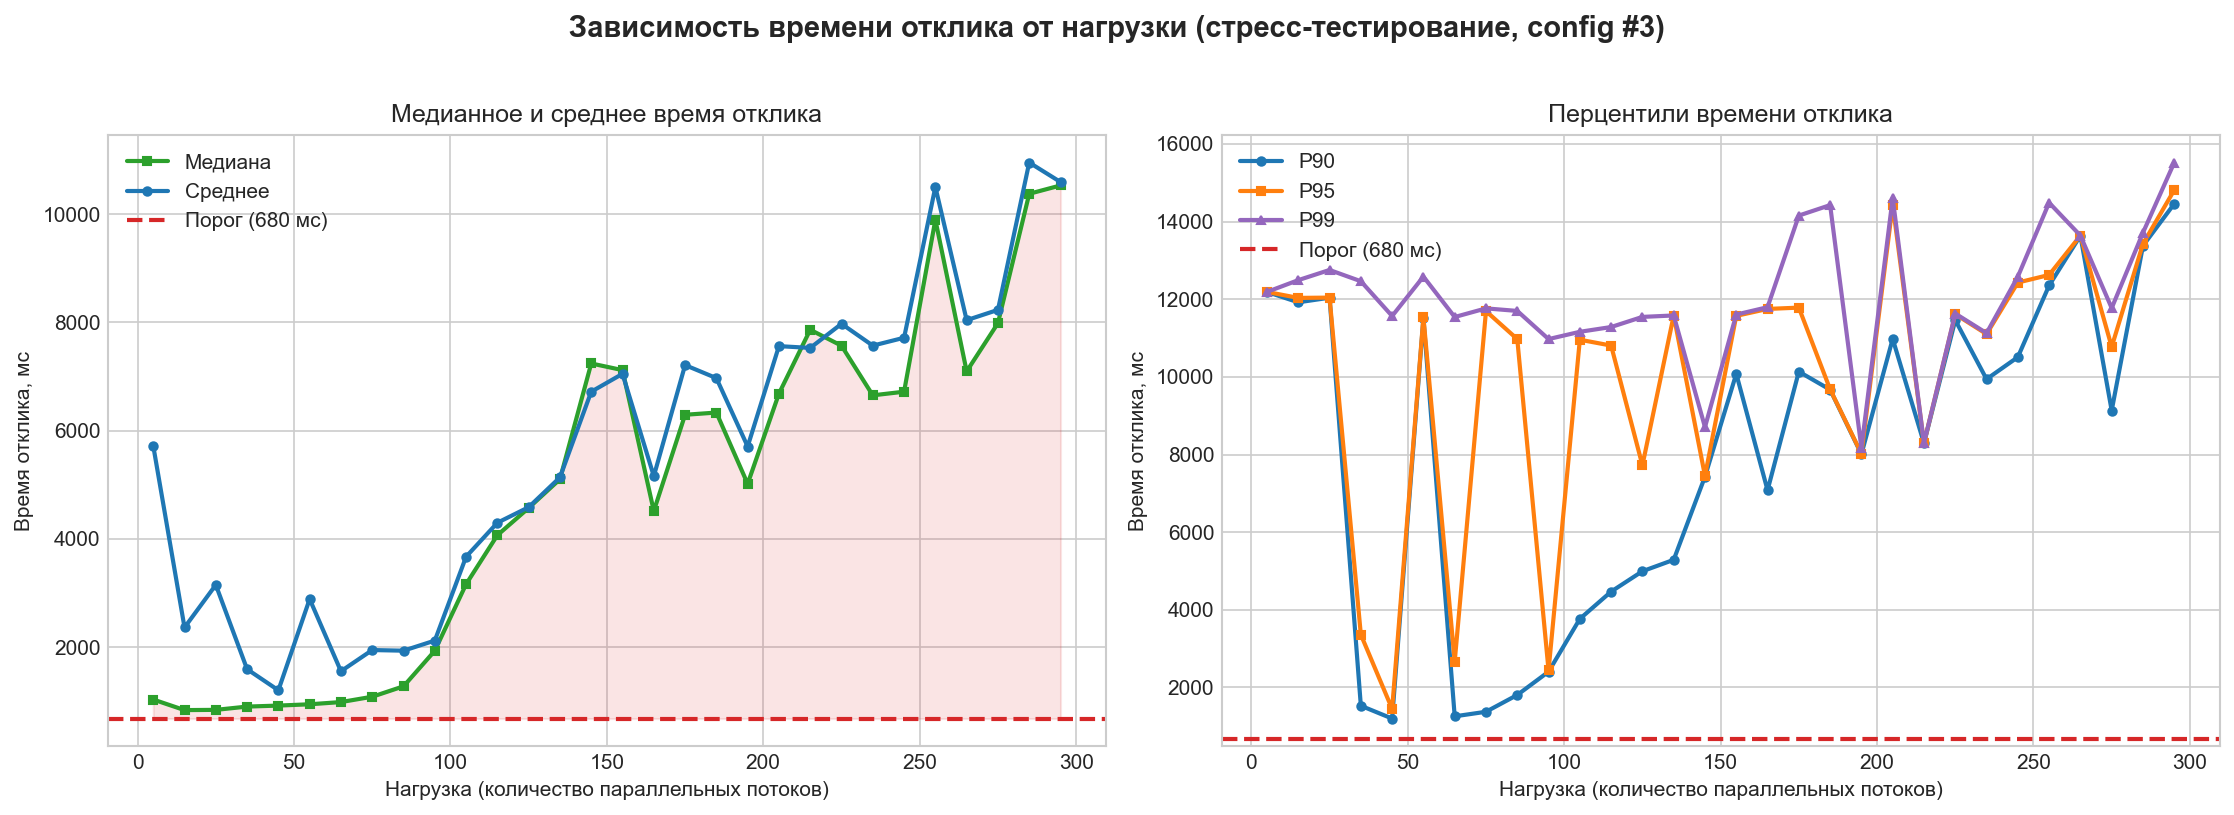
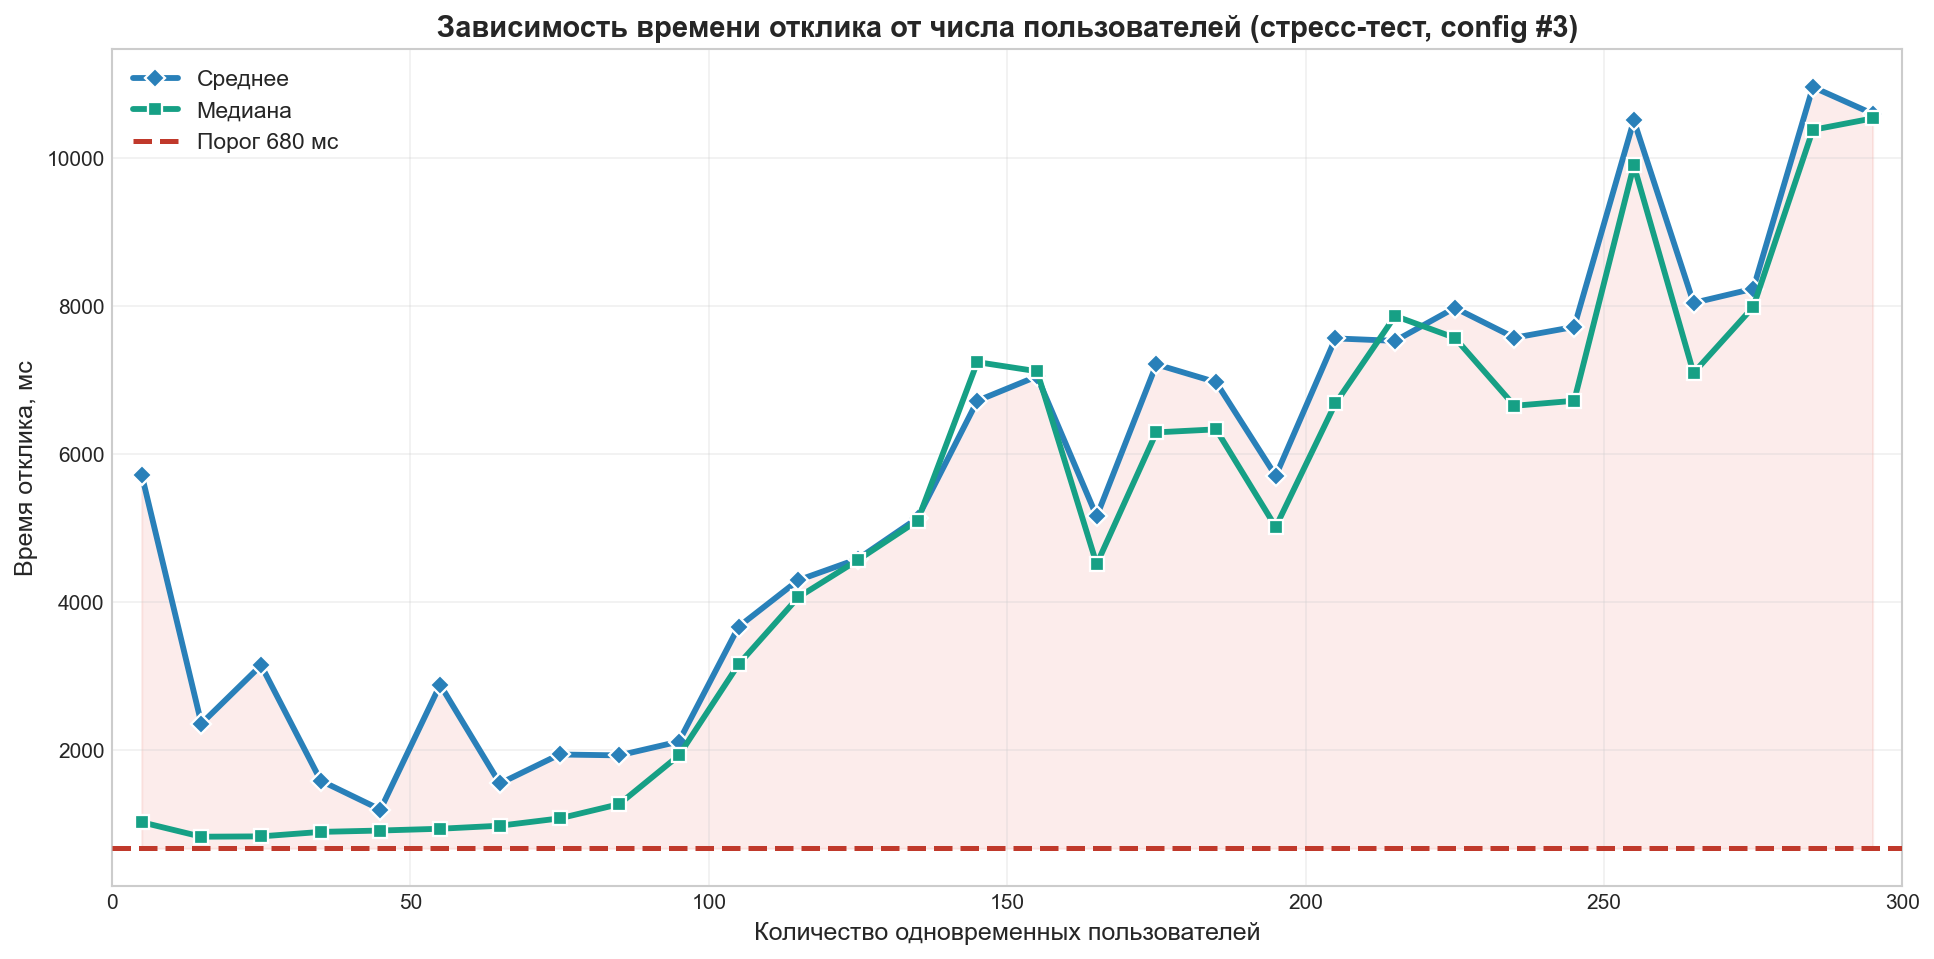
feat: ярче и читаемее графики (box-plot с градиентом, log-шкала, привязка к числу юзеров), обновлены картинки в отчёте и шпаргалка

diff --git a/stress/boxplot_stress.py b/stress/boxplot_stress.py
@@ -1,0 +1,92 @@
+#!/usr/bin/env python3
+"""Box-plot времени отклика по диапазонам нагрузки (стресс-тестирование).
+
+Ось X — диапазоны количества одновременных пользователей. Для каждого диапазона —
+яркий «ящик с усами» по времени отклика. Цвет ящика отражает «здоровье» системы
+(зелёный → жёлтый → красный по мере роста времени отклика). Логарифмическая шкала
+по Y делает читаемыми и малые, и большие значения. Нанесены среднее, медиана,
+порог 680 мс; зона выше порога подсвечена.
+"""
+import os
+import numpy as np
+import pandas as pd
+import matplotlib.pyplot as plt
+from matplotlib.colors import LinearSegmentedColormap
+
+BASE = os.path.dirname(os.path.dirname(os.path.abspath(__file__)))
+CSV = os.path.join(BASE, 'stress', 'result', 'results.csv')
+OUT = os.path.join(BASE, 'boxplot_stress.png')
+THRESHOLD_MS = 680
+BIN = 25
+
+df = pd.read_csv(CSV)
+df = df[df['grpThreads'] > 0].copy()
+maxn = int(df['grpThreads'].max())
+edges = list(range(0, maxn + BIN, BIN))
+
+data, labels, means, medians, counts = [], [], [], [], []
+for i in range(len(edges) - 1):
+    lo, hi = edges[i], edges[i + 1]
+    sub = df[(df['grpThreads'] > lo) & (df['grpThreads'] <= hi)]['elapsed'].values
+    if len(sub) < 5:
+        continue
+    data.append(sub)
+    labels.append(f'{lo + 1}–{hi}')
+    means.append(sub.mean())
+    medians.append(np.median(sub))
+    counts.append(len(sub))
+
+plt.style.use('seaborn-v0_8-whitegrid')
+fig, ax = plt.subplots(figsize=(15, 7.5))
+pos = np.arange(len(data))
+
+# цвет ящика по медиане: зелёный (быстро) -> жёлтый -> красный (медленно)
+cmap = LinearSegmentedColormap.from_list('health', ['#2ecc71', '#f1c40f', '#e74c3c'])
+mmin, mmax = min(medians), max(medians)
+box_colors = [cmap((m - mmin) / (mmax - mmin + 1e-9)) for m in medians]
+
+bp = ax.boxplot(data, positions=pos, widths=0.62, patch_artist=True,
+                showfliers=True,
+                flierprops=dict(marker='o', ms=2.5, alpha=0.18,
+                                markerfacecolor='#7f8c8d', markeredgecolor='none'),
+                medianprops=dict(color='#1a1a1a', lw=2.8),
+                whiskerprops=dict(color='#34495e', lw=1.6),
+                capprops=dict(color='#34495e', lw=1.6),
+                boxprops=dict(lw=1.4))
+for box, c in zip(bp['boxes'], box_colors):
+    box.set(facecolor=c, edgecolor='#2c3e50', alpha=0.92)
+
+# среднее — крупные яркие ромбы с линией
+ax.plot(pos, means, color='#2980b9', marker='D', ms=9, lw=2.4,
+        markeredgecolor='white', markeredgewidth=1.2, label='Среднее', zorder=6)
+# медиана — линия-связка по верхам медиан
+ax.plot(pos, medians, color='#16a085', marker='s', ms=8, lw=2.4,
+        markeredgecolor='white', markeredgewidth=1.2, label='Медиана', zorder=6)
+
+# порог и подсветка зоны превышения
+ax.axhline(THRESHOLD_MS, color='#c0392b', ls='--', lw=2.4, label=f'Порог {THRESHOLD_MS} мс', zorder=4)
+ax.axhspan(THRESHOLD_MS, ax.get_ylim()[1], color='#e74c3c', alpha=0.05, zorder=0)
+
+ax.set_yscale('log')
+ax.set_ylim(bottom=max(300, df['elapsed'].min() * 0.9))
+ax.set_xlabel('Количество одновременных пользователей (диапазон)', labelpad=20, fontsize=12)
+ax.set_ylabel('Время отклика, мс (лог. шкала)', fontsize=12)
+ax.set_title('Распределение времени отклика по нагрузке (стресс-тест, config #3)',
+             fontsize=14, fontweight='bold')
+ax.set_xticks(pos)
+ax.set_xticklabels(labels, rotation=40, ha='right', fontsize=10)
+ax.grid(axis='y', which='both', alpha=0.3)
+
+# число замеров над осью X
+ymin = ax.get_ylim()[0]
+for p, c in zip(pos, counts):
+    ax.annotate(f'n={c}', (p, ymin), textcoords='offset points', xytext=(0, -34),
+                ha='center', fontsize=8, color='#555')
+
+ax.legend(loc='upper left', fontsize=11, framealpha=0.95)
+plt.tight_layout()
+plt.savefig(OUT, dpi=150, bbox_inches='tight')
+print('Среднее/медиана по диапазонам нагрузки:')
+for lab, mn, md, c in zip(labels, means, medians, counts):
+    print(f'  {lab} польз.: среднее={mn:.0f} медиана={md:.0f} (n={c})')
+print(f'График сохранён: {OUT}')

diff --git a/stress/response_time_analysis.py b/stress/response_time_analysis.py
@@ -1,10 +1,10 @@
 #!/usr/bin/env python3
-"""Анализ стресс-тестирования: график зависимости времени отклика от нагрузки.
+"""Зависимость времени отклика от числа пользователей (стресс-тестирование).
 
-Результаты собраны через SSH-туннель до сервера кафедры, поэтому в сырых данных
-присутствуют сетевые выбросы. Для построения наглядной зависимости данные
-агрегируются по диапазонам нагрузки (бинам) с использованием медианы и
-перцентилей, устойчивых к выбросам.
+Строит линейный график среднего и медианного времени отклика выбранной
+конфигурации в зависимости от количества одновременных пользователей (потоков).
+Данные собраны через SSH-туннель, поэтому агрегируются по диапазонам нагрузки;
+медиана устойчива к сетевым выбросам. Порог 680 мс показан пунктиром.
 """
 import os
 import numpy as np
@@ -15,66 +15,46 @@ BASE = os.path.dirname(os.path.dirname(os.path.abspath(__file__)))
 CSV = os.path.join(BASE, 'stress', 'result', 'results.csv')
 OUT = os.path.join(BASE, 'response_time_vs_load.png')
 THRESHOLD_MS = 680
-BIN = 10  # ширина диапазона нагрузки (потоков) для агрегации
+BIN = 10  # ширина диапазона нагрузки (пользователей) для агрегации
 
 df = pd.read_csv(CSV)
 df = df[df['grpThreads'] > 0].copy()
-df['bin'] = ((df['grpThreads'] - 1) // BIN) * BIN + BIN // 2  # центр диапазона
+df['users'] = ((df['grpThreads'] - 1) // BIN) * BIN + BIN // 2  # центр диапазона
 
-agg = df.groupby('bin')['elapsed'].agg(
-    median='median',
-    mean='mean',
-    p90=lambda s: s.quantile(0.9),
-    p95=lambda s: s.quantile(0.95),
-    p99=lambda s: s.quantile(0.99),
-    n='count',
-).reset_index()
-agg = agg[agg['n'] >= 5]  # отбрасываем диапазоны с недостатком данных
-
-print("Агрегированная статистика по диапазонам нагрузки:")
-print(agg.to_string(index=False))
-print("\n" + "=" * 80)
+agg = df.groupby('users')['elapsed'].agg(
+    mean='mean', median='median', n='count').reset_index()
+agg = agg[agg['n'] >= 5]
 
 plt.style.use('seaborn-v0_8-whitegrid')
-fig, axes = plt.subplots(1, 2, figsize=(15, 5.5))
-fig.suptitle('Зависимость времени отклика от нагрузки (стресс-тестирование, config #3)',
-             fontsize=14, fontweight='bold')
+fig, ax = plt.subplots(figsize=(13, 6.5))
 
-# --- Левый график: медиана и среднее ---
-ax1 = axes[0]
-ax1.plot(agg['bin'], agg['median'], color='#2ca02c', marker='s', ms=4, lw=2, label='Медиана')
-ax1.plot(agg['bin'], agg['mean'], color='#1f77b4', marker='o', ms=4, lw=2, label='Среднее')
-ax1.axhline(THRESHOLD_MS, color='#d62728', ls='--', lw=2, label=f'Порог ({THRESHOLD_MS} мс)')
-ax1.fill_between(agg['bin'], THRESHOLD_MS, agg['median'],
-                 where=(agg['median'] > THRESHOLD_MS), color='#d62728', alpha=0.12)
-ax1.set_xlabel('Нагрузка (количество параллельных потоков)')
-ax1.set_ylabel('Время отклика, мс')
-ax1.set_title('Медианное и среднее время отклика')
-ax1.legend(loc='upper left')
+ax.fill_between(agg['users'], THRESHOLD_MS, agg['mean'],
+                where=(agg['mean'] > THRESHOLD_MS), color='#e74c3c', alpha=0.10, zorder=0)
+ax.plot(agg['users'], agg['mean'], color='#2980b9', marker='D', ms=7, lw=2.8,
+        markeredgecolor='white', markeredgewidth=1.1, label='Среднее', zorder=5)
+ax.plot(agg['users'], agg['median'], color='#16a085', marker='s', ms=7, lw=2.8,
+        markeredgecolor='white', markeredgewidth=1.1, label='Медиана', zorder=5)
+ax.axhline(THRESHOLD_MS, color='#c0392b', ls='--', lw=2.4, label=f'Порог {THRESHOLD_MS} мс', zorder=4)
 
-# --- Правый график: перцентили ---
-ax2 = axes[1]
-ax2.plot(agg['bin'], agg['p90'], color='#1f77b4', marker='o', ms=4, lw=2, label='P90')
-ax2.plot(agg['bin'], agg['p95'], color='#ff7f0e', marker='s', ms=4, lw=2, label='P95')
-ax2.plot(agg['bin'], agg['p99'], color='#9467bd', marker='^', ms=4, lw=2, label='P99')
-ax2.axhline(THRESHOLD_MS, color='#d62728', ls='--', lw=2, label=f'Порог ({THRESHOLD_MS} мс)')
-ax2.set_xlabel('Нагрузка (количество параллельных потоков)')
-ax2.set_ylabel('Время отклика, мс')
-ax2.set_title('Перцентили времени отклика')
-ax2.legend(loc='upper left')
-
-plt.tight_layout(rect=[0, 0, 1, 0.96])
+ax.set_xlabel('Количество одновременных пользователей', fontsize=12)
+ax.set_ylabel('Время отклика, мс', fontsize=12)
+ax.set_title('Зависимость времени отклика от числа пользователей '
+             '(стресс-тест, config #3)', fontsize=14, fontweight='bold')
+ax.legend(loc='upper left', fontsize=11, framealpha=0.95)
+ax.grid(alpha=0.3)
+ax.set_xlim(0, agg['users'].max() + 5)
+plt.tight_layout()
 plt.savefig(OUT, dpi=150, bbox_inches='tight')
-print(f"График сохранён: {OUT}")
 
-# --- Точка пробоя порога по медиане ---
-print("\nИТОГОВЫЙ АНАЛИЗ (по медиане, устойчивой к сетевым выбросам):")
+print('Среднее/медиана по числу пользователей:')
+print(agg.to_string(index=False))
 over = agg[agg['median'] > THRESHOLD_MS]
 ok = agg[agg['median'] <= THRESHOLD_MS]
+print("\nИТОГ (по медиане):")
 if not over.empty:
-    first = int(over.iloc[0]['bin'])
-    max_ok = int(ok['bin'].max()) if not ok.empty else 0
-    print(f"  Порог {THRESHOLD_MS} мс по медиане превышается начиная с диапазона ~{first} потоков")
-    print(f"  Максимальная нагрузка с медианой в пределах порога: ~{max_ok} потоков")
+    print(f"  Порог {THRESHOLD_MS} мс по медиане превышается с ~{int(over.iloc[0]['users'])} пользователей")
+    if not ok.empty:
+        print(f"  Макс. нагрузка с медианой в пределах порога: ~{int(ok['users'].max())} пользователей")
 else:
-    print(f"  Медиана не превышает {THRESHOLD_MS} мс на всём диапазоне нагрузки")
+    print(f"  Медиана не превышает {THRESHOLD_MS} мс на всём диапазоне")
+print(f"График сохранён: {OUT}")

diff --git a/load/boxplot_load.py b/load/boxplot_load.py
@@ -1,0 +1,74 @@
+#!/usr/bin/env python3
+"""Box-plot времени отклика по числу пользователей (нагрузочное тестирование).
+
+Ось X — точное количество одновременных пользователей (потоков), для каждого
+значения строится «ящик с усами» по времени отклика выбранной конфигурации.
+Дополнительно нанесены среднее и медианное значения и порог 680 мс.
+"""
+import os
+import numpy as np
+import pandas as pd
+import matplotlib.pyplot as plt
+
+BASE = os.path.dirname(os.path.dirname(os.path.abspath(__file__)))
+CSV = os.path.join(BASE, 'load', 'result', 'results.csv')
+OUT = os.path.join(BASE, 'boxplot_load.png')
+THRESHOLD_MS = 680
+CONFIG = 3  # выбранная конфигурация
+
+df = pd.read_csv(CSV)
+df['config'] = df['URL'].str.extract(r'config=(\d)').astype(int)
+g = df[df['config'] == CONFIG]
+
+levels = sorted(g['grpThreads'].unique())
+data = [g[g['grpThreads'] == n]['elapsed'].values for n in levels]
+means = [v.mean() for v in data]
+medians = [np.median(v) for v in data]
+counts = [len(v) for v in data]
+
+from matplotlib.colors import LinearSegmentedColormap
+plt.style.use('seaborn-v0_8-whitegrid')
+fig, ax = plt.subplots(figsize=(13, 7))
+
+# цвет ящиков по медиане: зелёный -> жёлтый -> красный
+cmap = LinearSegmentedColormap.from_list('health', ['#2ecc71', '#f1c40f', '#e74c3c'])
+mmin, mmax = min(medians), max(medians)
+box_colors = [cmap((m - mmin) / (mmax - mmin + 1e-9)) for m in medians]
+
+bp = ax.boxplot(data, positions=levels, widths=0.5, patch_artist=True,
+                showfliers=True, flierprops=dict(marker='o', ms=3.5, alpha=0.25,
+                markerfacecolor='#7f8c8d', markeredgecolor='none'),
+                medianprops=dict(color='#1a1a1a', lw=2.8),
+                whiskerprops=dict(color='#34495e', lw=1.6),
+                capprops=dict(color='#34495e', lw=1.6),
+                boxprops=dict(lw=1.4))
+for box, c in zip(bp['boxes'], box_colors):
+    box.set(facecolor=c, edgecolor='#2c3e50', alpha=0.92)
+
+# среднее и медиана — крупные яркие маркеры с белой обводкой
+ax.plot(levels, means, color='#2980b9', marker='D', ms=10, lw=2.4,
+        markeredgecolor='white', markeredgewidth=1.3, label='Среднее', zorder=6)
+ax.plot(levels, medians, color='#16a085', marker='s', ms=9, lw=2.4,
+        markeredgecolor='white', markeredgewidth=1.3, label='Медиана', zorder=6)
+ax.axhline(THRESHOLD_MS, color='#c0392b', ls='--', lw=2.4, label=f'Порог {THRESHOLD_MS} мс', zorder=4)
+ax.axhspan(THRESHOLD_MS, ax.get_ylim()[1], color='#e74c3c', alpha=0.05, zorder=0)
+
+# подписи: точное число замеров под каждой группой
+y0 = ax.get_ylim()[0]
+for n, c in zip(levels, counts):
+    ax.annotate(f'n={c}', (n, y0), textcoords='offset points', xytext=(0, -24),
+                ha='center', fontsize=8.5, color='#444')
+
+ax.set_xlabel('Количество одновременных пользователей', labelpad=20, fontsize=12)
+ax.set_ylabel('Время отклика, мс', fontsize=12)
+ax.set_title(f'Распределение времени отклика по числу пользователей '
+             f'(нагрузочный тест, config #{CONFIG})', fontsize=14, fontweight='bold')
+ax.set_xticks(levels)
+ax.grid(axis='y', alpha=0.3)
+ax.legend(loc='upper left', fontsize=11, framealpha=0.95)
+plt.tight_layout()
+plt.savefig(OUT, dpi=150, bbox_inches='tight')
+print('Среднее/медиана по числу пользователей:')
+for n, mn, md, c in zip(levels, means, medians, counts):
+    print(f'  {n} польз.: среднее={mn:.0f} медиана={md:.0f} (n={c})')
+print(f'График сохранён: {OUT}')

diff --git a/ШПАРГАЛКА.md b/ШПАРГАЛКА.md
@@ -78,39 +78,45 @@
 
 ## Что за графики в отчёте — разбор каждого
 
-### 1. Графики из HTML-дашборда JMeter (`load/report*/`)
-Генерятся автоматом командой `jmeter ... -e -o ./load/report`.
+Все графики строятся Python-скриптами по реальным CSV-результатам прогона. Идея — **все
+метрики привязаны к количеству одновременных пользователей** (нагрузке), а не ко времени:
+пользователи одинаковые, поэтому именно число юзеров — главная переменная.
 
-- **Response Times Over Time** — время отклика во времени. Видно, **растёт ли задержка**
-  по мере набора нагрузки (ramp-up). Влияет на вывод «справляется/нет».
-- **Throughput (пропускная способность)** — сколько запросов/сек сервер реально переваривает.
-  Если throughput упёрся в потолок, а запросов всё больше → очередь, рост latency.
-- **Latency vs Response time** — latency = время до **первого байта** ответа;
-  response time = до **полного** ответа. Разница показывает: тормозит сеть или обработка.
-- **Active Threads Over Time** — сколько виртуальных юзеров активно в каждый момент
-  (показывает корректность ramp-up).
-- **Таблица статистики** (`statistics.json`): `meanResTime` (среднее), `medianResTime`,
-  `pct1/2/3ResTime` (перцентили 90/95/99), `errorPct` (% ошибок), `throughput`.
+### Нагрузочное тестирование (раздел «Графики пропускной способности»)
 
-**Зачем перцентили?** Среднее обманчиво. **P90 = 90% запросов быстрее этого значения.**
-P99 ловит «хвост» — редкие, но жуткие тормоза. Если P95 < 680 мс — большинство юзеров довольны.
+**1. Таблица статистики** (`load_stats_table.png`, скрипт `load/load_charts.py`) —
+итоговые цифры по 3 конфигам: среднее, медиана, P90/P95/P99, min/max, % превышений 680 мс.
+Конфиг #3 подсвечен зелёным (выбран), #1/#2 красным (не прошли).
 
-### 2. График из Python (`stress/response_time_analysis.py` → `response_time_vs_load.png`)
-Главный график стресс-теста. Две панели:
+**2. Сравнение конфигураций** (`config_comparison.png`, `load/load_charts.py`) — 3 столбчатые
+панели: время отклика по конфигам (среднее/медиана/P95/P99 + порог), доля запросов > 680 мс,
+пропускная способность. Наглядно видно: #3 кардинально лучше.
 
-- **Левая — «Среднее и медианное время отклика»:**
-  - Синяя линия — среднее, зелёная — медиана; по X — число потоков (нагрузка), по Y — мс.
-  - **Красная пунктирная линия = порог 680 мс.**
-  - Красная заливка — зона, где среднее **превысило порог** (тут система «сломалась»).
-  - Скрипт сам печатает: при скольких потоках пробит порог и макс. пропускную способность.
+**3. Box-plot «с усами» по числу пользователей** (`boxplot_load.png`, `load/boxplot_load.py`) —
+**главный график.** По оси X — точное число одновременных пользователей (1…7), снизу `n=` число
+замеров. Для каждого числа юзеров — «ящик с усами»: коробка = 25–75 перцентиль, линия внутри =
+медиана, усы = разброс, точки = выбросы. Поверх — линии **среднего (синие ромбы)** и
+**медианы (зелёные квадраты)** + порог 680 мс. Видно, как с ростом юзеров растёт разброс.
 
-- **Правая — «Процентили (P90/P95/P99)»:**
-  - Показывает поведение не только «середины», но и **худших случаев** под ростом нагрузки.
-  - P99 пробивает порог раньше среднего — «хвост» страдает первым.
+### Стресс-тестирование (раздел «скрипт на Python»)
 
-> ⚠️ Нюанс: в `stress/response_time_analysis.py` (строка 5) путь к CSV **захардкожен**
-> как `/Users/admin/tpo-4/...` — это чужой путь. Чтобы перестроить график у себя, поменяй
-> на свой (`load-extra/result-delay/results.csv` или `stress/result/results.csv`).
+**4. Box-plot по диапазонам нагрузки** (`boxplot_stress.png`, `stress/boxplot_stress.py`) —
+ящики с усами по диапазонам юзеров (1–25, 26–50, … 276–300). Снизу `n=` число замеров.
+Показывает, как распределение времени отклика «уезжает» вверх с ростом нагрузки.
+
+**5. Линия среднее + медиана от числа пользователей** (`response_time_vs_load.png`,
+`stress/response_time_analysis.py`) — две линии (среднее и медиана) в зависимости от числа
+потоков, порог 680 мс пунктиром, красная заливка зоны превышения. Время отклика монотонно
+растёт от ~700 мс (низкая нагрузка) до ~10000–11000 мс при 300 пользователях.
+
+### Зачем box-plot («с усами»)?
+Среднее обманчиво — его задирают единичные выбросы. Box-plot показывает **сразу всё**:
+медиану (типичное значение), межквартильный размах (где лежат 50 % запросов) и выбросы.
+**P90 = 90 % запросов быстрее этого значения.** Если медиана и коробка ниже порога —
+большинство пользователей довольны, даже если есть редкие медленные ответы.
+
+> ⚠️ Все скрипты берут путь к CSV относительно расположения файла (хардкод чужого пути убран).
+> Запуск: `./venv/bin/python load/boxplot_load.py` и т.д. (нужны pandas + matplotlib в venv).
 
 ---
 